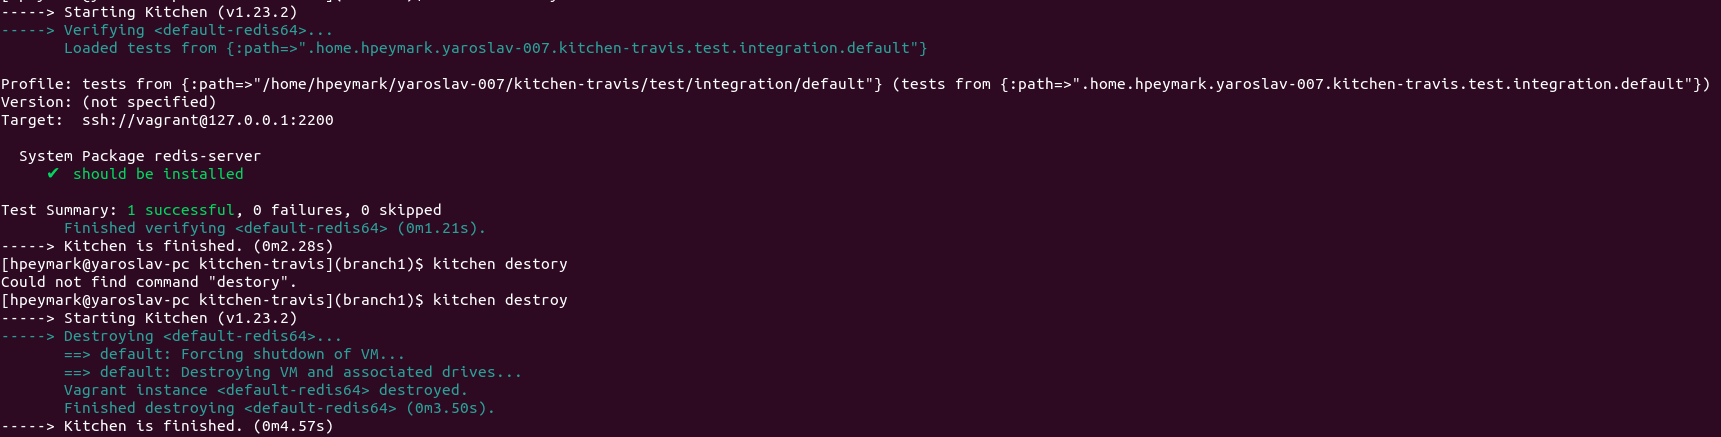
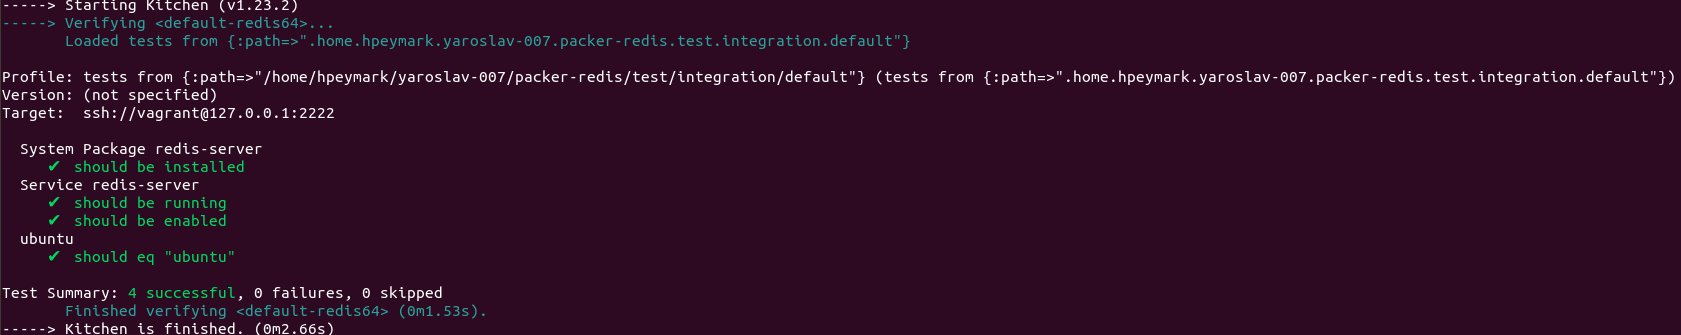
adding checks

Changed region(s): [[0.0, 0.3284, 0.3403, 1.0], [0.0, 0.1791, 1.0, 0.2985], [0.0, 0.0, 0.5568, 0.1493]]

diff --git a/test/integration/default/check_pkg.rb b/test/integration/default/check_pkg.rb
@@ -1,3 +1,12 @@
 describe package('redis-server') do
   it { should be_installed }
 end
+
+describe service('redis-server') do
+  it { should be_running }
+  it { should be_enabled }
+end
+
+describe os.name do
+   it { should eq 'ubuntu' }
+end
